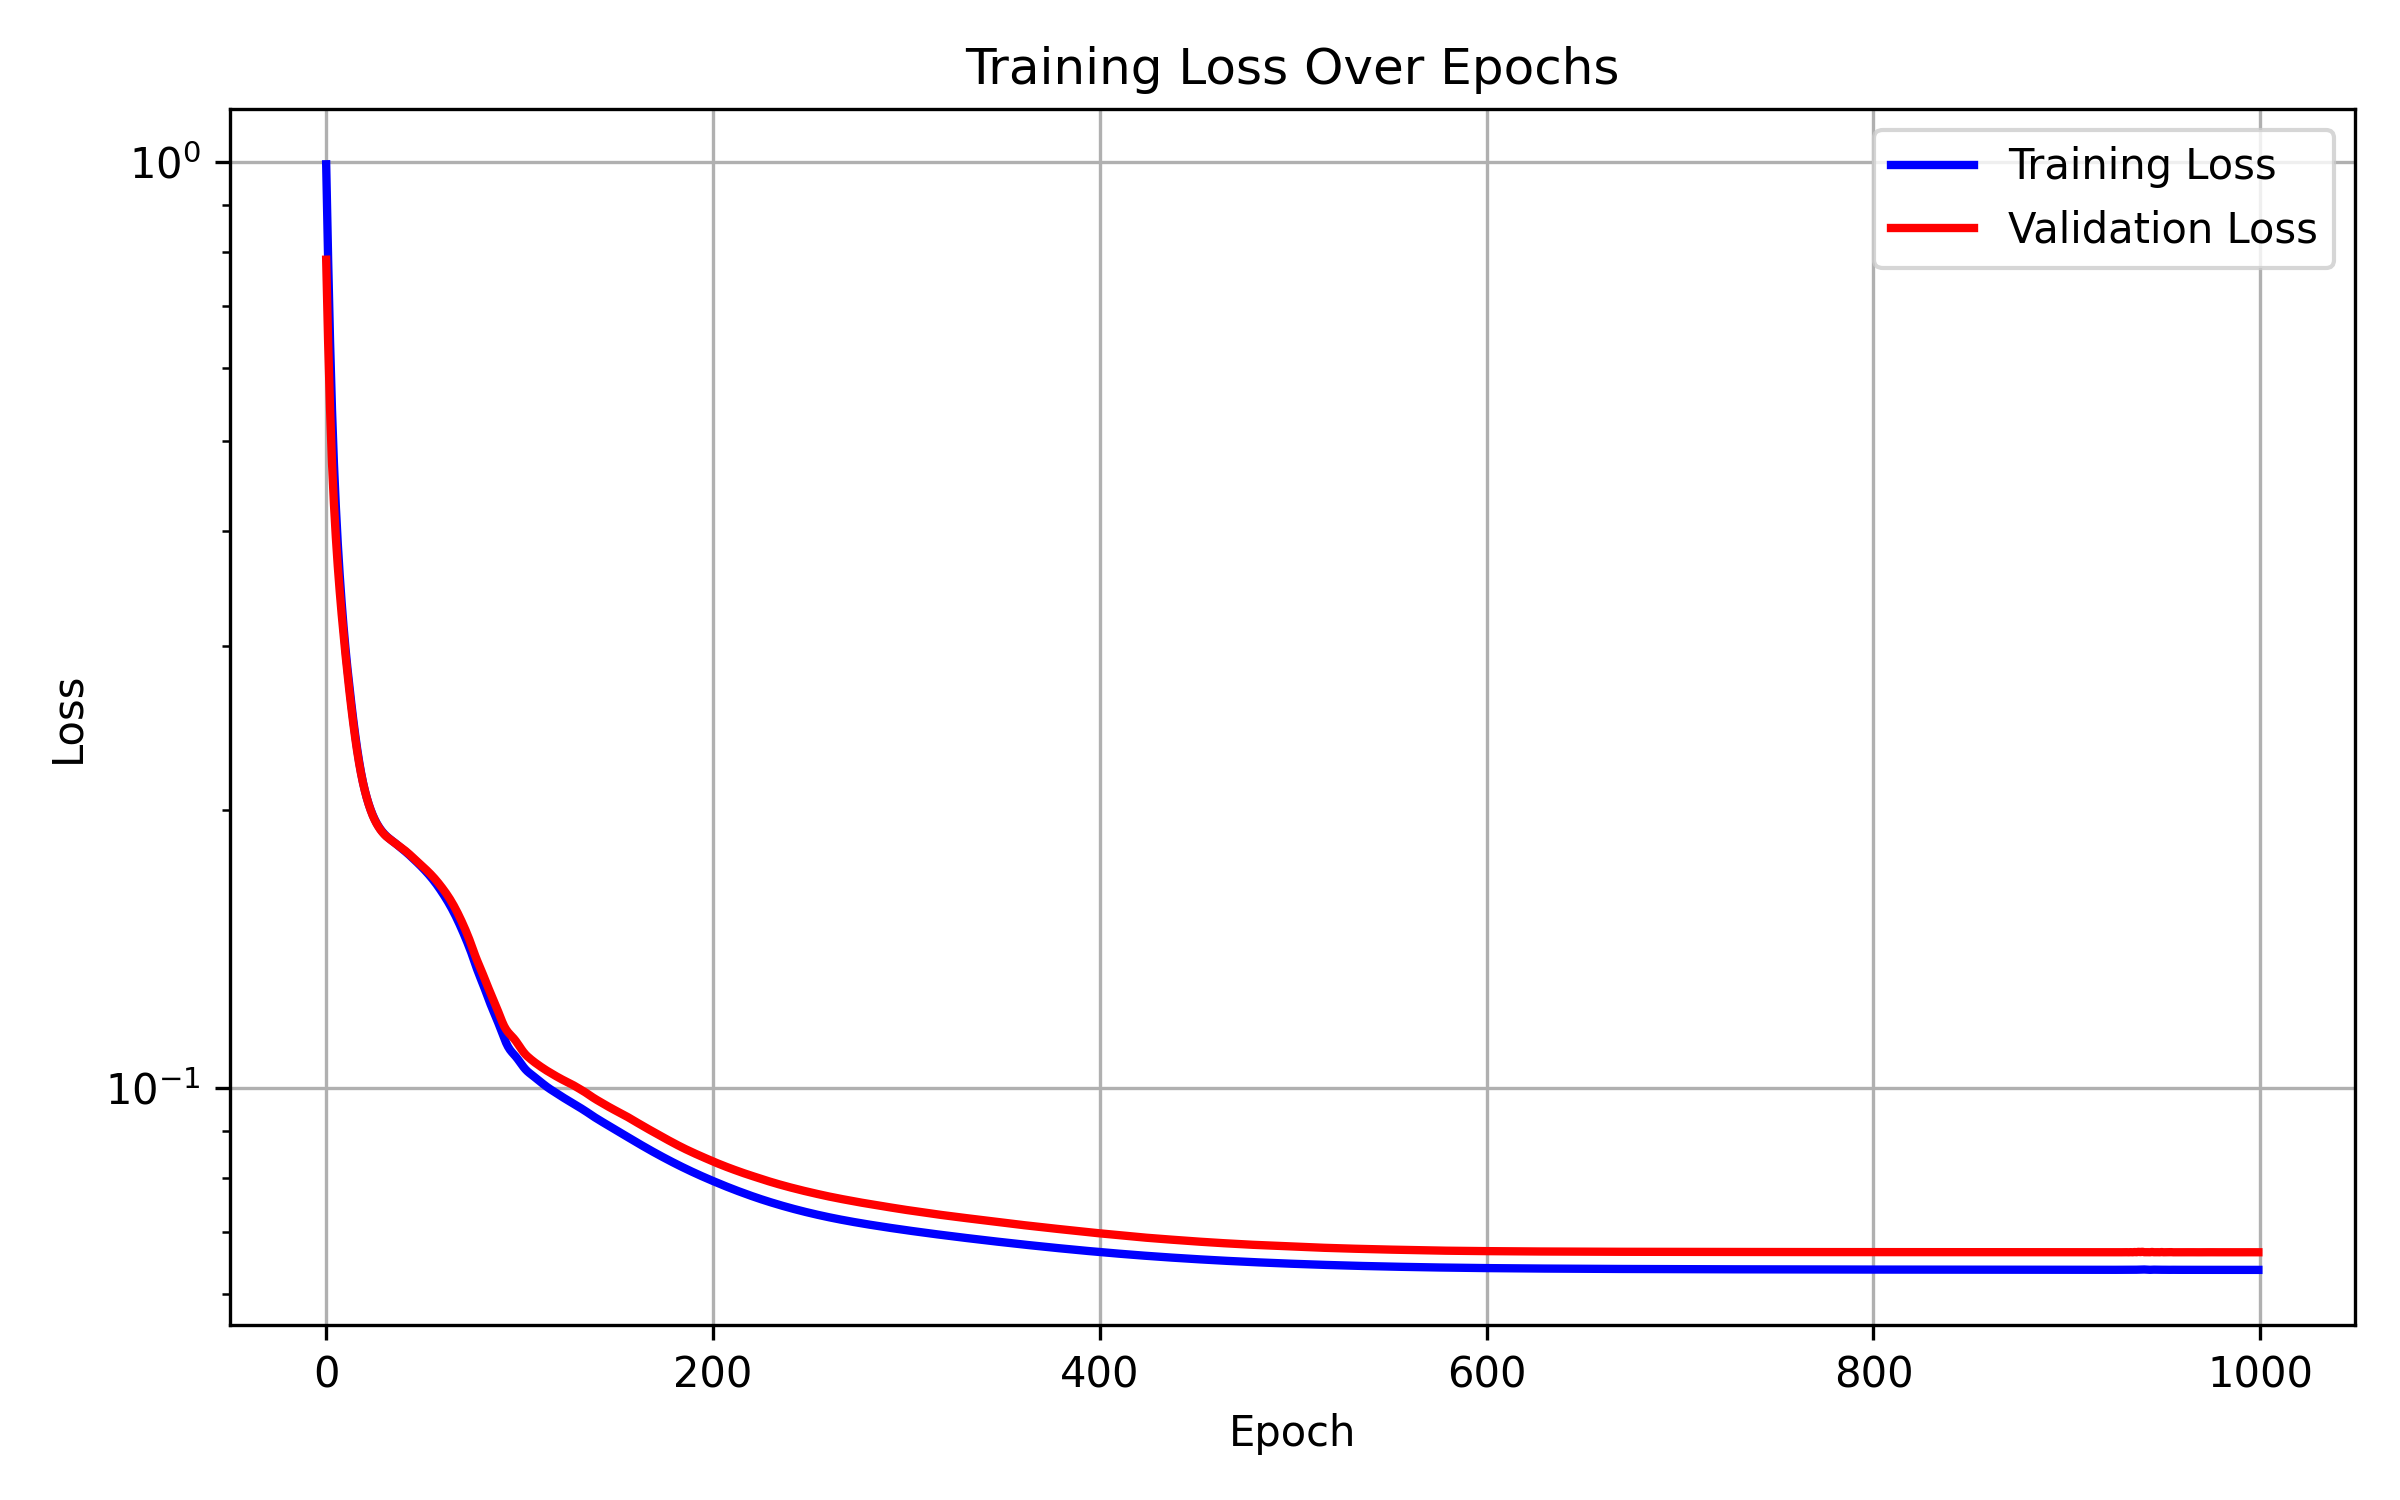
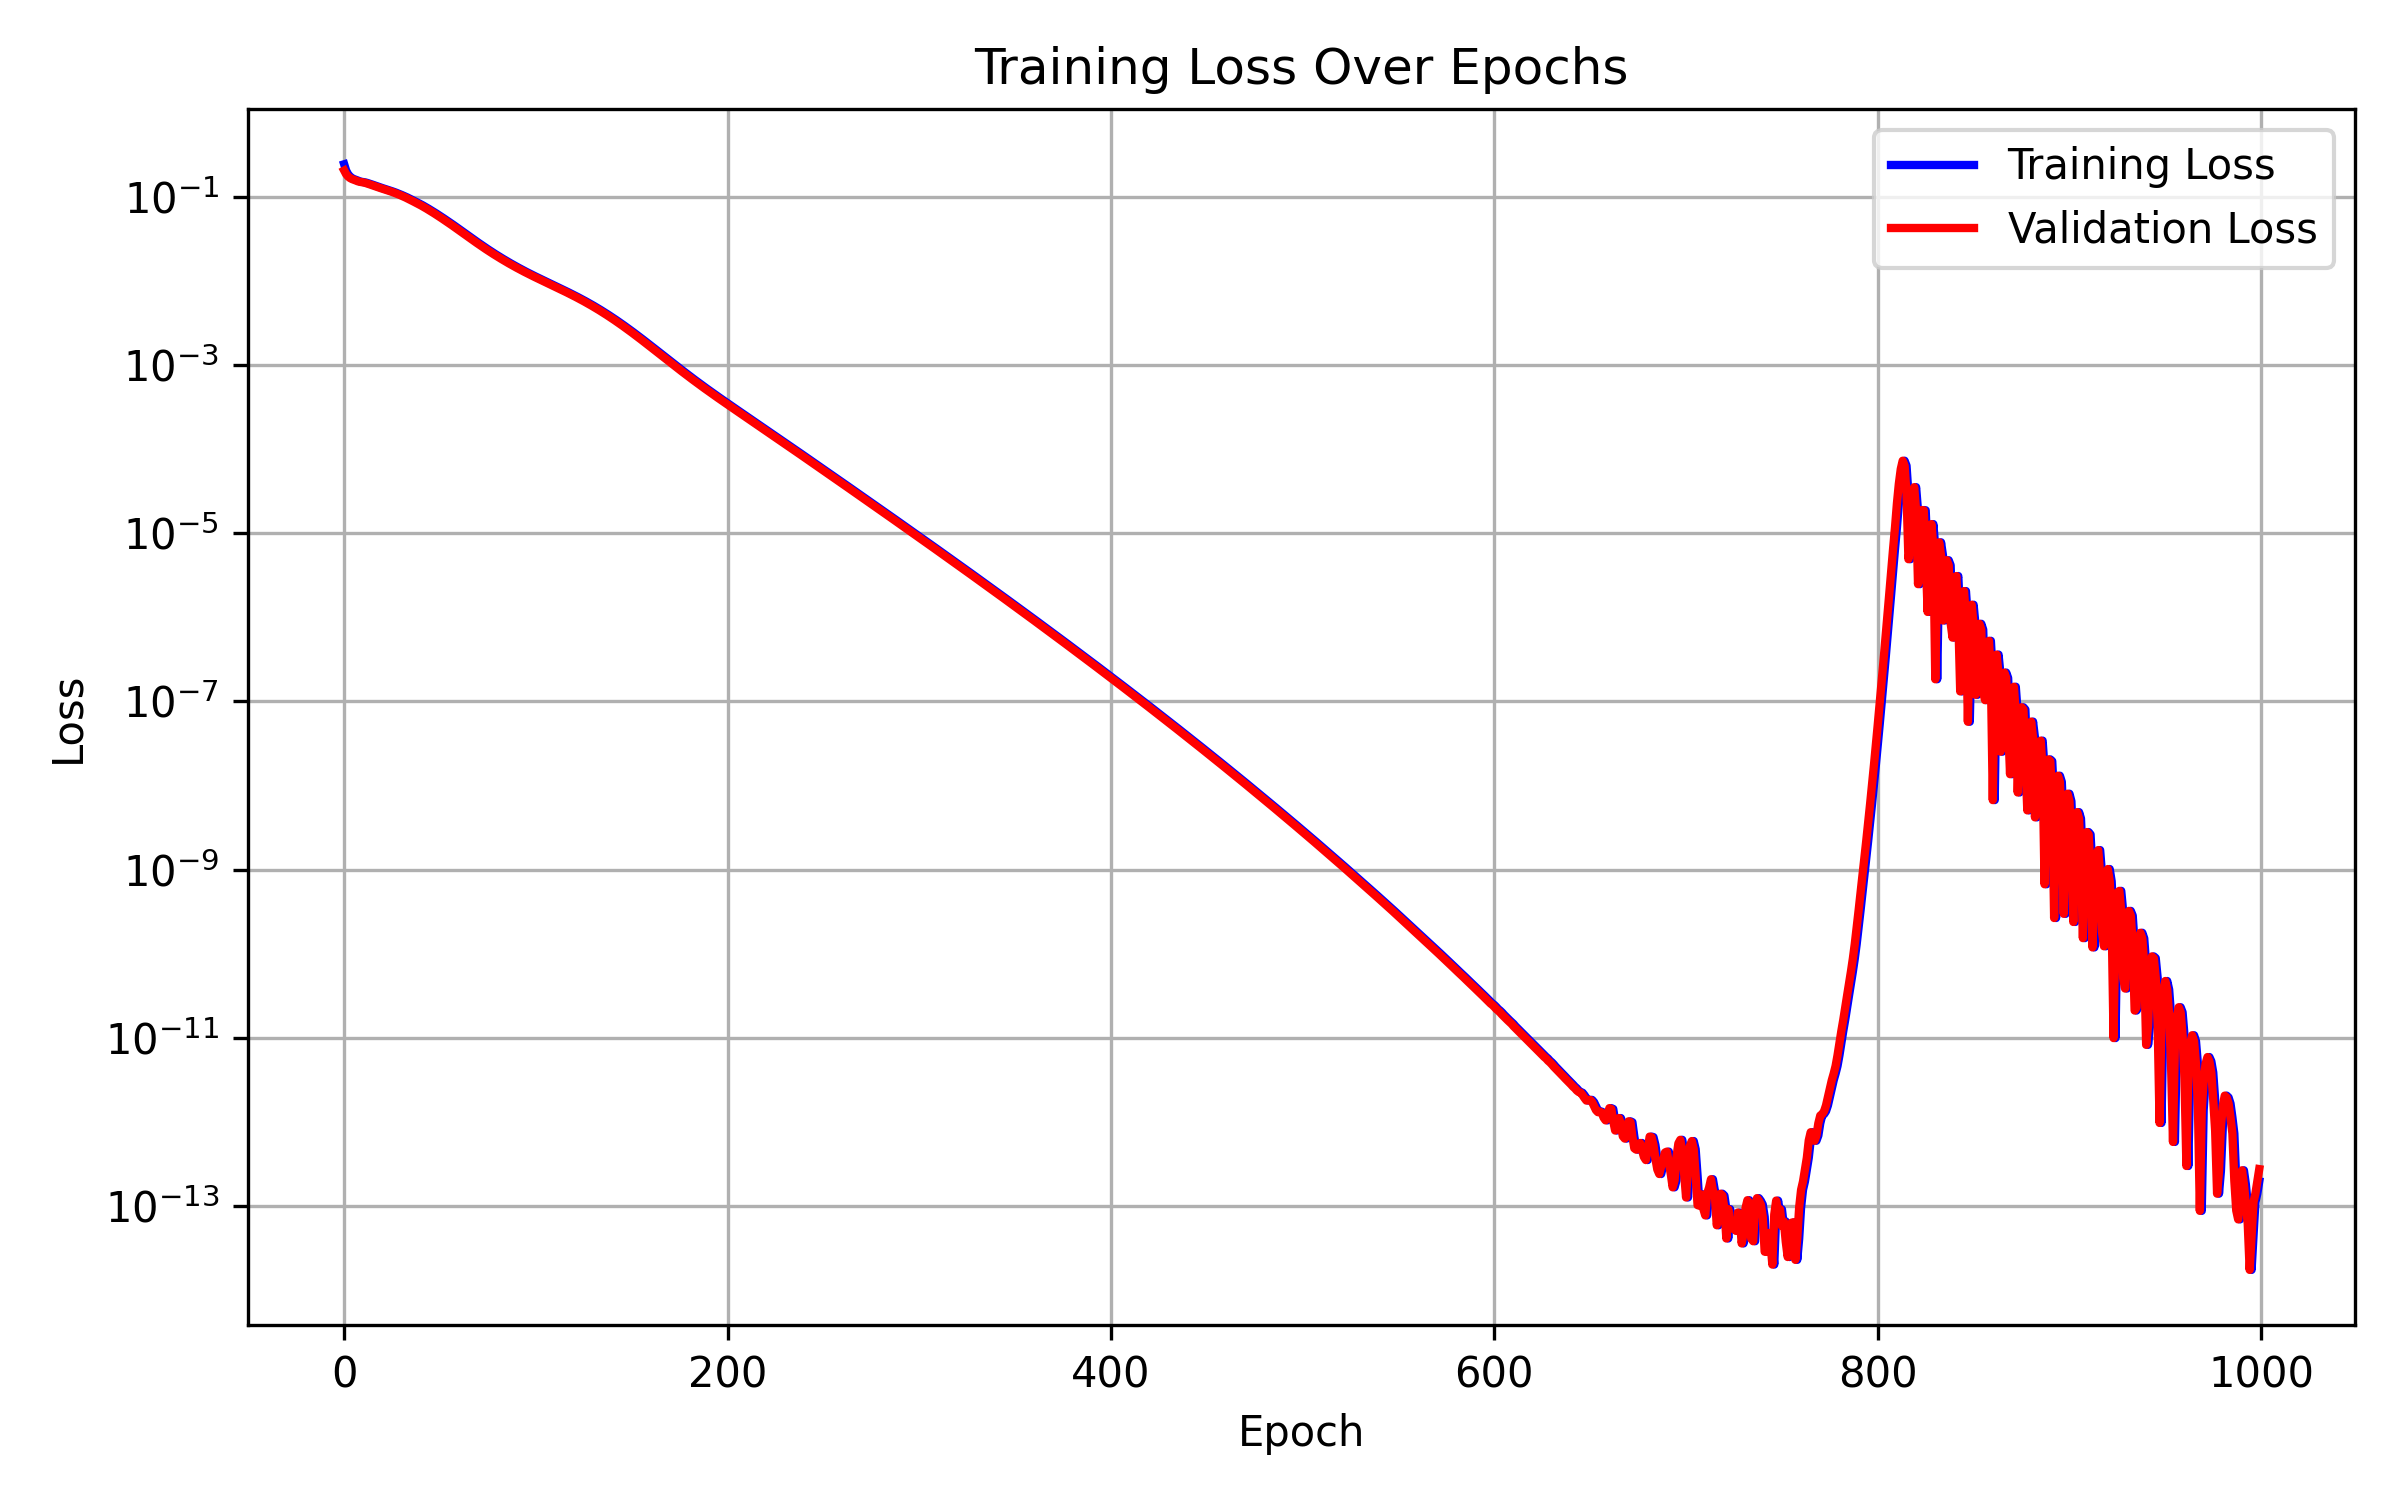
add more encoder layers

diff --git a/main.py b/main.py
@@ -15,7 +15,12 @@ nNodes = 20
 Time = 12
 Features = 1
 Rank = 3
+# ======== if stochastics_data:
 stochastic_data = True
+num_comm = 2
+num_cycle = 2
+
+
 save_path = f"Generated_Data/temporal_graph_dataset_{Features}-{nNodes}-{Time}_.pt"
 save_path_abnormal = f"Generated_Data/temporal_graph_dataset_abnormal_{Features}-{nNodes}-{Time}_.pt"
 ### Generate and save dataset, watch node 0 and node 4
@@ -23,13 +28,13 @@ dataset = generate_temporal_graph_dataset(
     nNodes=nNodes,
     Time=Time,
     Features=Features,
-    num_cycle=3,
-    num_comm=2,
+    num_cycle=num_cycle,
+    num_comm=num_comm,
     num_samples=200,
     high_prob=0.2,
     low_prob=0.03,
     save_path=save_path,
-    visualize=True,
+    visualize=False,
     node_i= 0,   # Choose a node within num of node set
     node_j= 2,    # Choose a node within num of node set
     num_snapshots = Time
@@ -39,7 +44,7 @@ print(f"Dataset saved as {save_path}")
 #### ==== 2. Making the model
 
 # Example of layer dimensions: input_dim=10, hidden layers, final output_dim=5
-layer_dims = [(2,2,2)]  # input -> hidden1 -> hidden2 -> hidden3 -> hidden4 -> output
+layer_dims = [6, 8]  # input -> hidden1 -> hidden2 -> hidden3 -> hidden4 -> output
 input_shape= (nNodes, Time, Features)
 # Create model
 model = TGCN_Autoencoder(
@@ -72,15 +77,15 @@ if stochastic_data:
     loaded_data = torch.load(save_path)
     adj_list_full = loaded_data["adj"]
     feat_list_full = loaded_data["feat"]
-    # ---- for 1 sample ----- #####
-    # input_tensor = feat_list_full[0]
-    # A_true, B_true, C_true = parafac_gen(adj_list_full[0], Rank)
+    ### ---- for 1 sample ----- #####
+    input_tensor = feat_list_full[0]
+    A_true, B_true, C_true = parafac_gen(adj_list_full[0], Rank)
 
-    adj_list_train, feat_list_train, adj_list_val, feat_list_val = split_dataset(
-        adj_list_full, feat_list_full, train_ratio=0.8, seed=None)
+    # adj_list_train, feat_list_train, adj_list_val, feat_list_val = split_dataset(
+    #     adj_list_full, feat_list_full, train_ratio=0.8, seed=None)
 
-    adj_list_train = parafac_gen_list(adj_list_train, Rank)
-    adj_list_val = parafac_gen_list(adj_list_val, Rank)
+    # adj_list_train = parafac_gen_list(adj_list_train, Rank)
+    # adj_list_val = parafac_gen_list(adj_list_val, Rank)
 
 else:
     # Define A, B, and C
@@ -91,36 +96,36 @@ else:
 
 ### ==== 4. train and test the data
 
-# train_losses, val_losses, grad_history, A_hat, B_hat, C_hat = train_model(
-#     model=model,
-#     input_tensor=input_tensor,
-#     A=A_true, B=B_true, C=C_true,
-#     Rank=Rank,
-#     epochs=1000,
-#     learning_rate=5e-3,
-#     patience=10,
-#     verbose=True,
-#     use_early_stopping=False
-# )
+train_losses, val_losses, grad_history, A_hat, B_hat, C_hat = train_model(
+    model=model,
+    input_tensor=input_tensor,
+    A=A_true, B=B_true, C=C_true,
+    Rank=Rank,
+    epochs=1000,
+    learning_rate=5e-3,
+    patience=10,
+    verbose=True,
+    use_early_stopping=False
+)
 
 
 ### ==== 4. train and test the data
 
-train_losses, val_losses, grad_history =  train_model_batch(
-        model = model,
-        adj_list_train = adj_list_train,
-        feat_list_train = feat_list_train,
-        adj_list_val =  adj_list_val,
-        feat_list_val = feat_list_val,
-        Rank = Rank,
-        batch_size= int(len(adj_list_train)),
-        # batch_size= 32,
-        epochs=1000,
-        learning_rate=5*1e-3,
-        patience=15,
-        min_delta=1e-4,
-        verbose=True,
-        use_early_stopping=False)
+# train_losses, val_losses, grad_history =  train_model_batch(
+#         model = model,
+#         adj_list_train = adj_list_train,
+#         feat_list_train = feat_list_train,
+#         adj_list_val =  adj_list_val,
+#         feat_list_val = feat_list_val,
+#         Rank = Rank,
+#         batch_size= int(len(adj_list_train)),
+#         # batch_size= 32,
+#         epochs=1000,
+#         learning_rate=5*1e-3,
+#         patience=15,
+#         min_delta=1e-4,
+#         verbose=True,
+#         use_early_stopping=False)
 
 #### ==== 5. Visualization
 
@@ -138,8 +143,8 @@ abnormal_data = generate_temporal_graph_dataset(
     nNodes=nNodes,
     Time=Time,
     Features=Features,
-    num_cycle=2,
-    num_comm=2,
+    num_cycle=num_cycle,
+    num_comm=num_comm,
     num_samples=1,
     high_prob=0.03,
     low_prob=0.2,

diff --git a/Model.py b/Model.py
@@ -4,11 +4,17 @@ import torch.nn as nn
 import torch.nn.functional as F
 from Encoder import TEncoder
 from Decoder import TDecoder
+from Data_Generator import split_sum_into_3d
 
 
 # -------------------- Full TGCN Model (Encoder + Decoder) --------------------
 class TGCN_Autoencoder(nn.Module):
+
+
     def __init__(self, input_X, layer_dims, nNodes, Time, Rank, dropout=0.0):
+
+        # Convert layer_dims integers into 3D tuples for all layers
+        layer_dims_3d = [split_sum_into_3d(dim) for dim in layer_dims]
 
         super(TGCN_Autoencoder, self).__init__()
 
@@ -16,12 +22,14 @@ class TGCN_Autoencoder(nn.Module):
         self.dropout = dropout
         self.n_layers = len(layer_dims)  # Number of Encoder layers
 
+
+
         # Build Encoder layers dynamically
         for i in range(self.n_layers):
             self.layers.append(
                 TEncoder(
-                    M_in=input_X if i == 0 else layer_dims[i - 1],
-                    M_out=layer_dims[i],
+                    M_in=input_X if i == 0 else [layer_dims[i - 1], Rank, input_X[2]],
+                    M_out=layer_dims_3d[i],
                     nNodes=nNodes,
                     Time=Time,
                     Rank=Rank
@@ -31,7 +39,7 @@ class TGCN_Autoencoder(nn.Module):
 
         # Decoder input comes from the last encoder output
         self.decoder = TDecoder(
-            input_shape=(layer_dims[-1][0]+layer_dims[-1][1]+layer_dims[-1][2], Rank, input_X[2]),
+            input_shape=(layer_dims[-1], Rank, input_X[2]),
             nNodes=nNodes,
             Time=Time,
             Rank=Rank)
@@ -49,7 +57,7 @@ class TGCN_Autoencoder(nn.Module):
         # Pass through all encoder layers
         for idx, layer in enumerate(self.layers):
             x = layer(x, A, B, C, Rank)
-            if idx != self.n_layers:
+            if idx != self.n_layers - 1:                # last layer no relu
                 x = F.relu(x)
             if self.dropout > 0:
                 x = F.dropout(x, p=self.dropout, training=self.training)

diff --git a/Data_Generator.py b/Data_Generator.py
@@ -4,6 +4,8 @@ import numpy as np
 import torch
 import networkx as nx
 import matplotlib.pyplot as plt
+import math
+from itertools import product
 
 
 def generate_temporal_graph_dataset(
@@ -43,8 +45,8 @@ def generate_temporal_graph_dataset(
     """
 
     # Assert T is divisible by num_blocks
-    assert Time % num_blocks == 0, "T must be evenly divisible by num_blocks"
-    block_size = Time // num_blocks
+    assert Time % num_cycle == 0, "T must be evenly divisible by num_blocks"
+    block_size = Time // num_cycle
 
     # Divide nodes into two groups
     # num_comm = 1
@@ -54,11 +56,11 @@ def generate_temporal_graph_dataset(
     # Assign nodes to communities
     node_communities = np.array([i * num_comm // nNodes for i in range(nNodes)])
 
-    P = np.zeros((num_comm, num_comm, num_blocks))
+    P = np.zeros((num_comm, num_comm, num_cycle))
 
     for a in range(num_comm):
         for b in range(num_comm):
-            for t_block in range(num_blocks):
+            for t_block in range(num_cycle):
                 if a == b:
                     # Intra-group interaction probabilities
                     prob = high_prob if t_block % 2 == 0 else low_prob
@@ -162,3 +164,23 @@ def _visualize_temporal_graph(A_tensor, Time, node_i, node_j, num_snapshots):
     plt.grid(True)
     plt.show()
 
+
+def split_sum_into_3d(num_units):
+    if num_units < 3:
+        raise ValueError("Cannot split values less than 3 into 3 positive parts")
+
+    # Start by dividing equally
+    base = num_units // 3
+    remainder = num_units % 3
+
+    # Distribute the remainder to keep values close
+    parts = [base] * 3
+    for i in range(remainder):
+        parts[i] += 1
+
+    return tuple(sorted(parts))
+
+#
+# units = 16
+# shape = split_sum_into_3d(units)
+# print(f"A balanced 3D shape for {units} is: {shape}")
